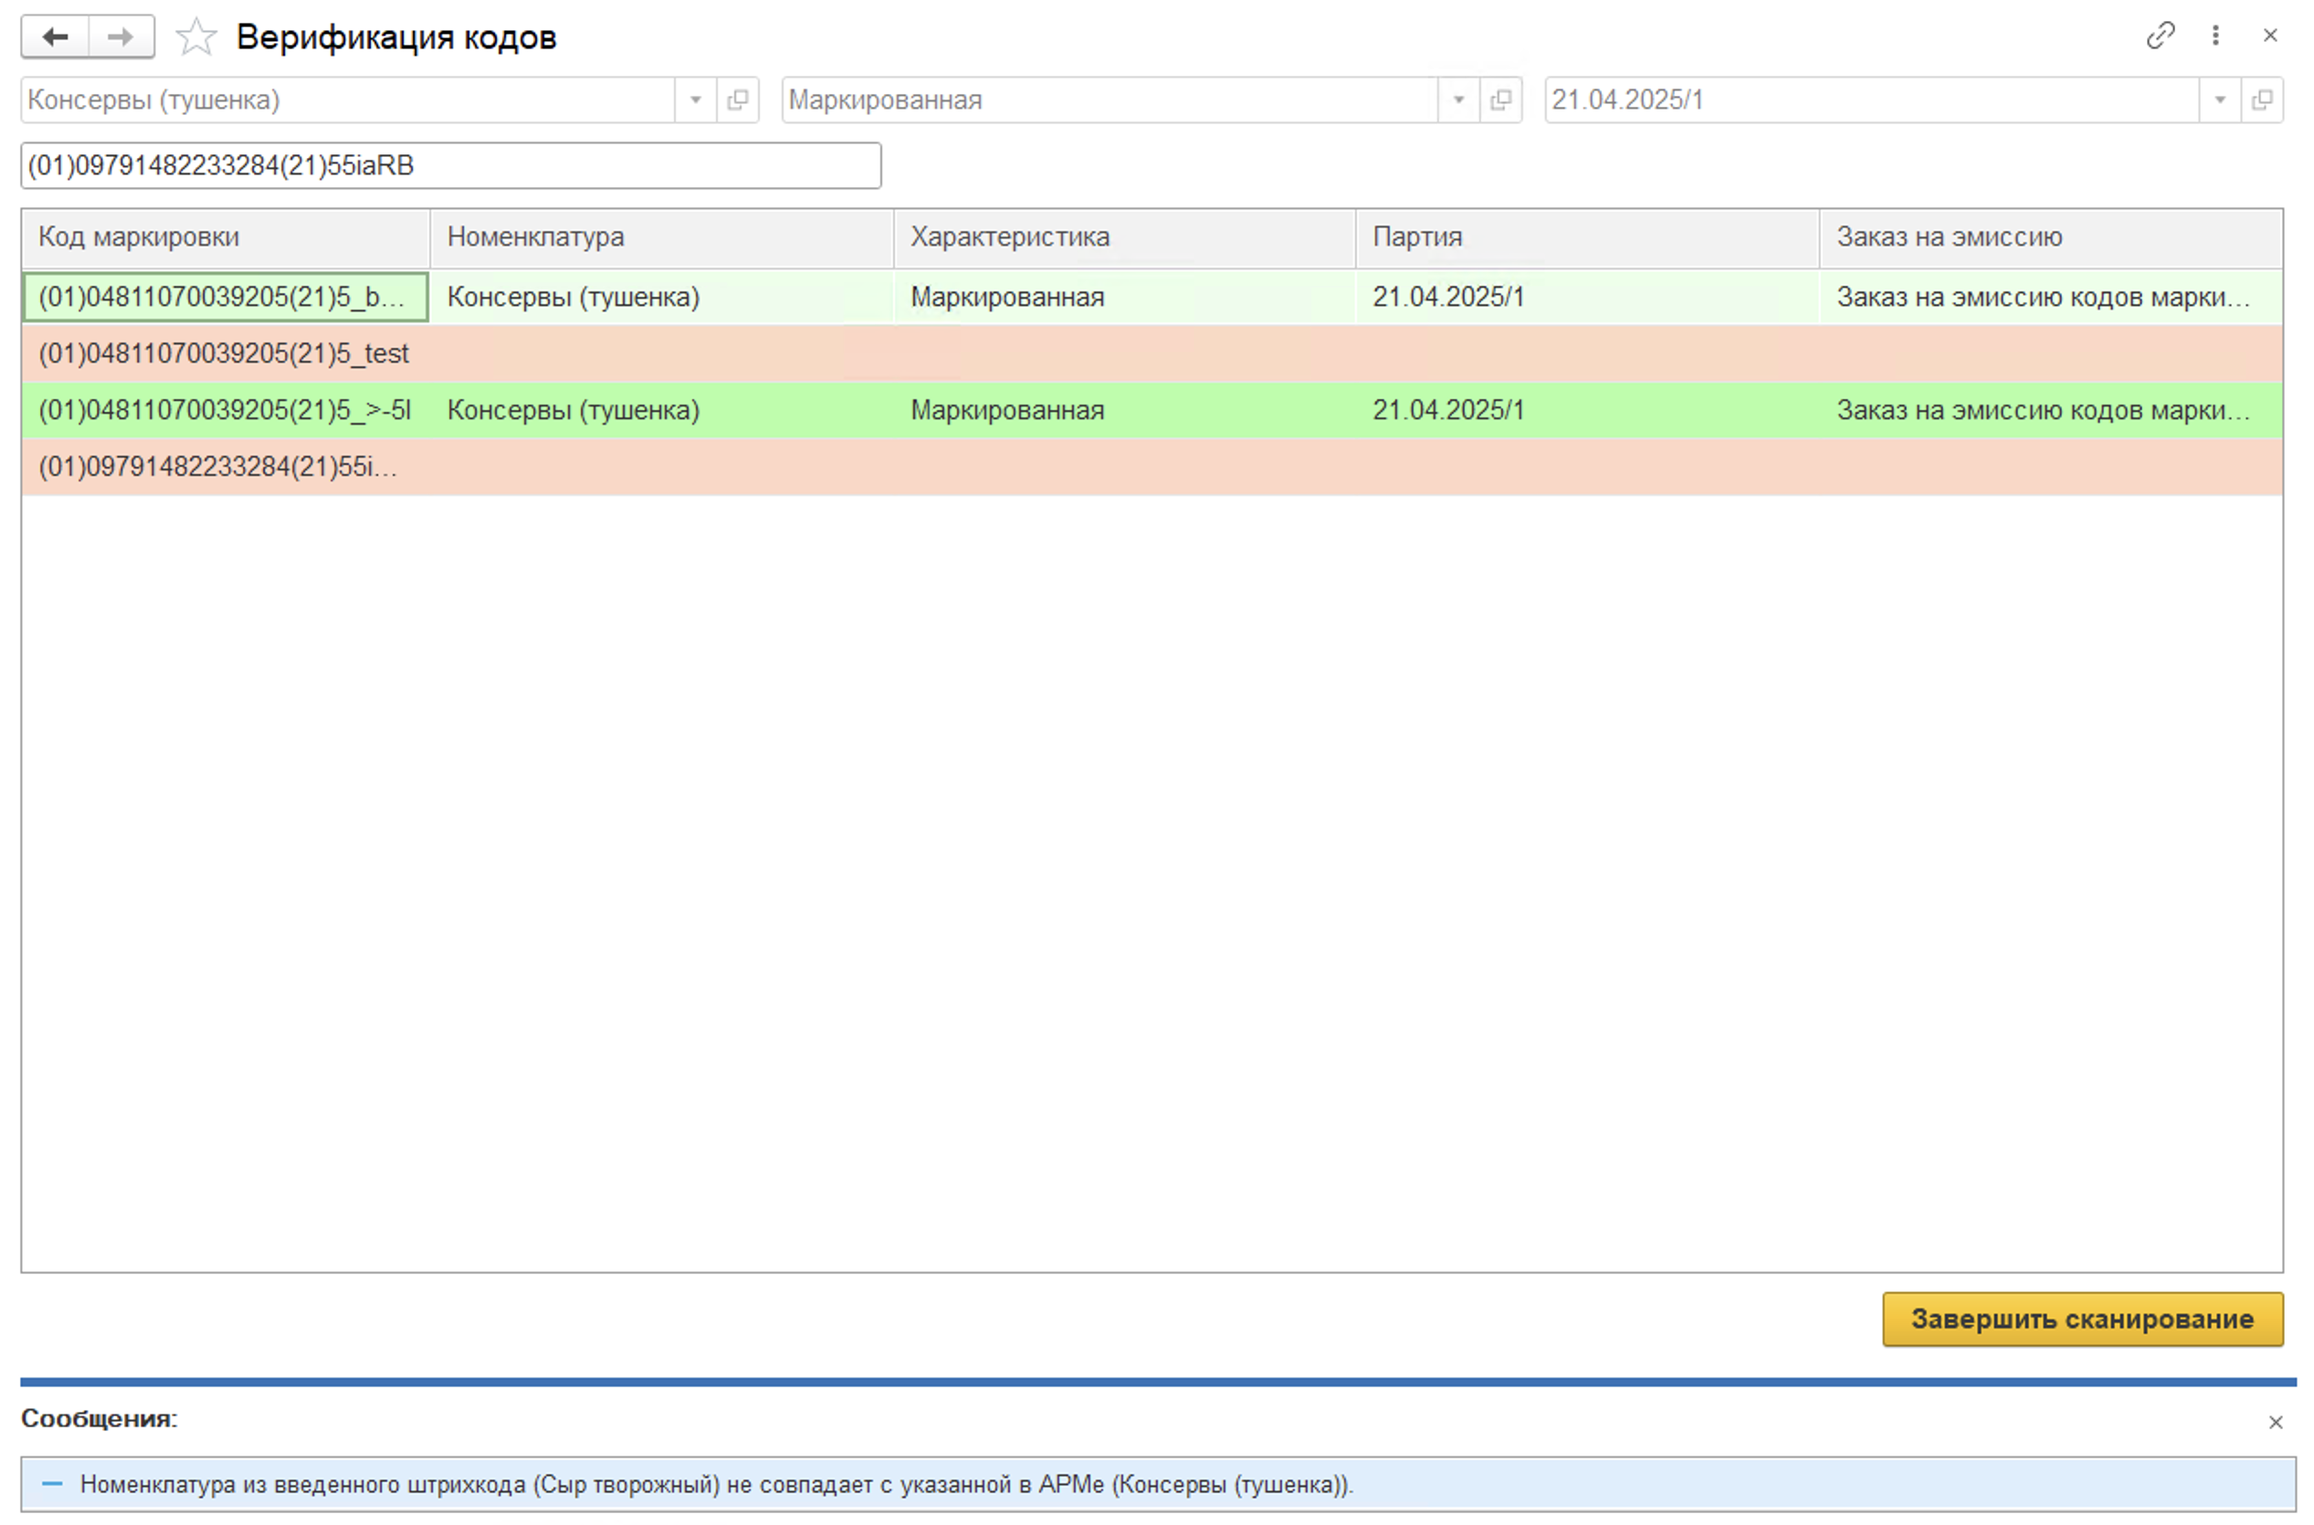
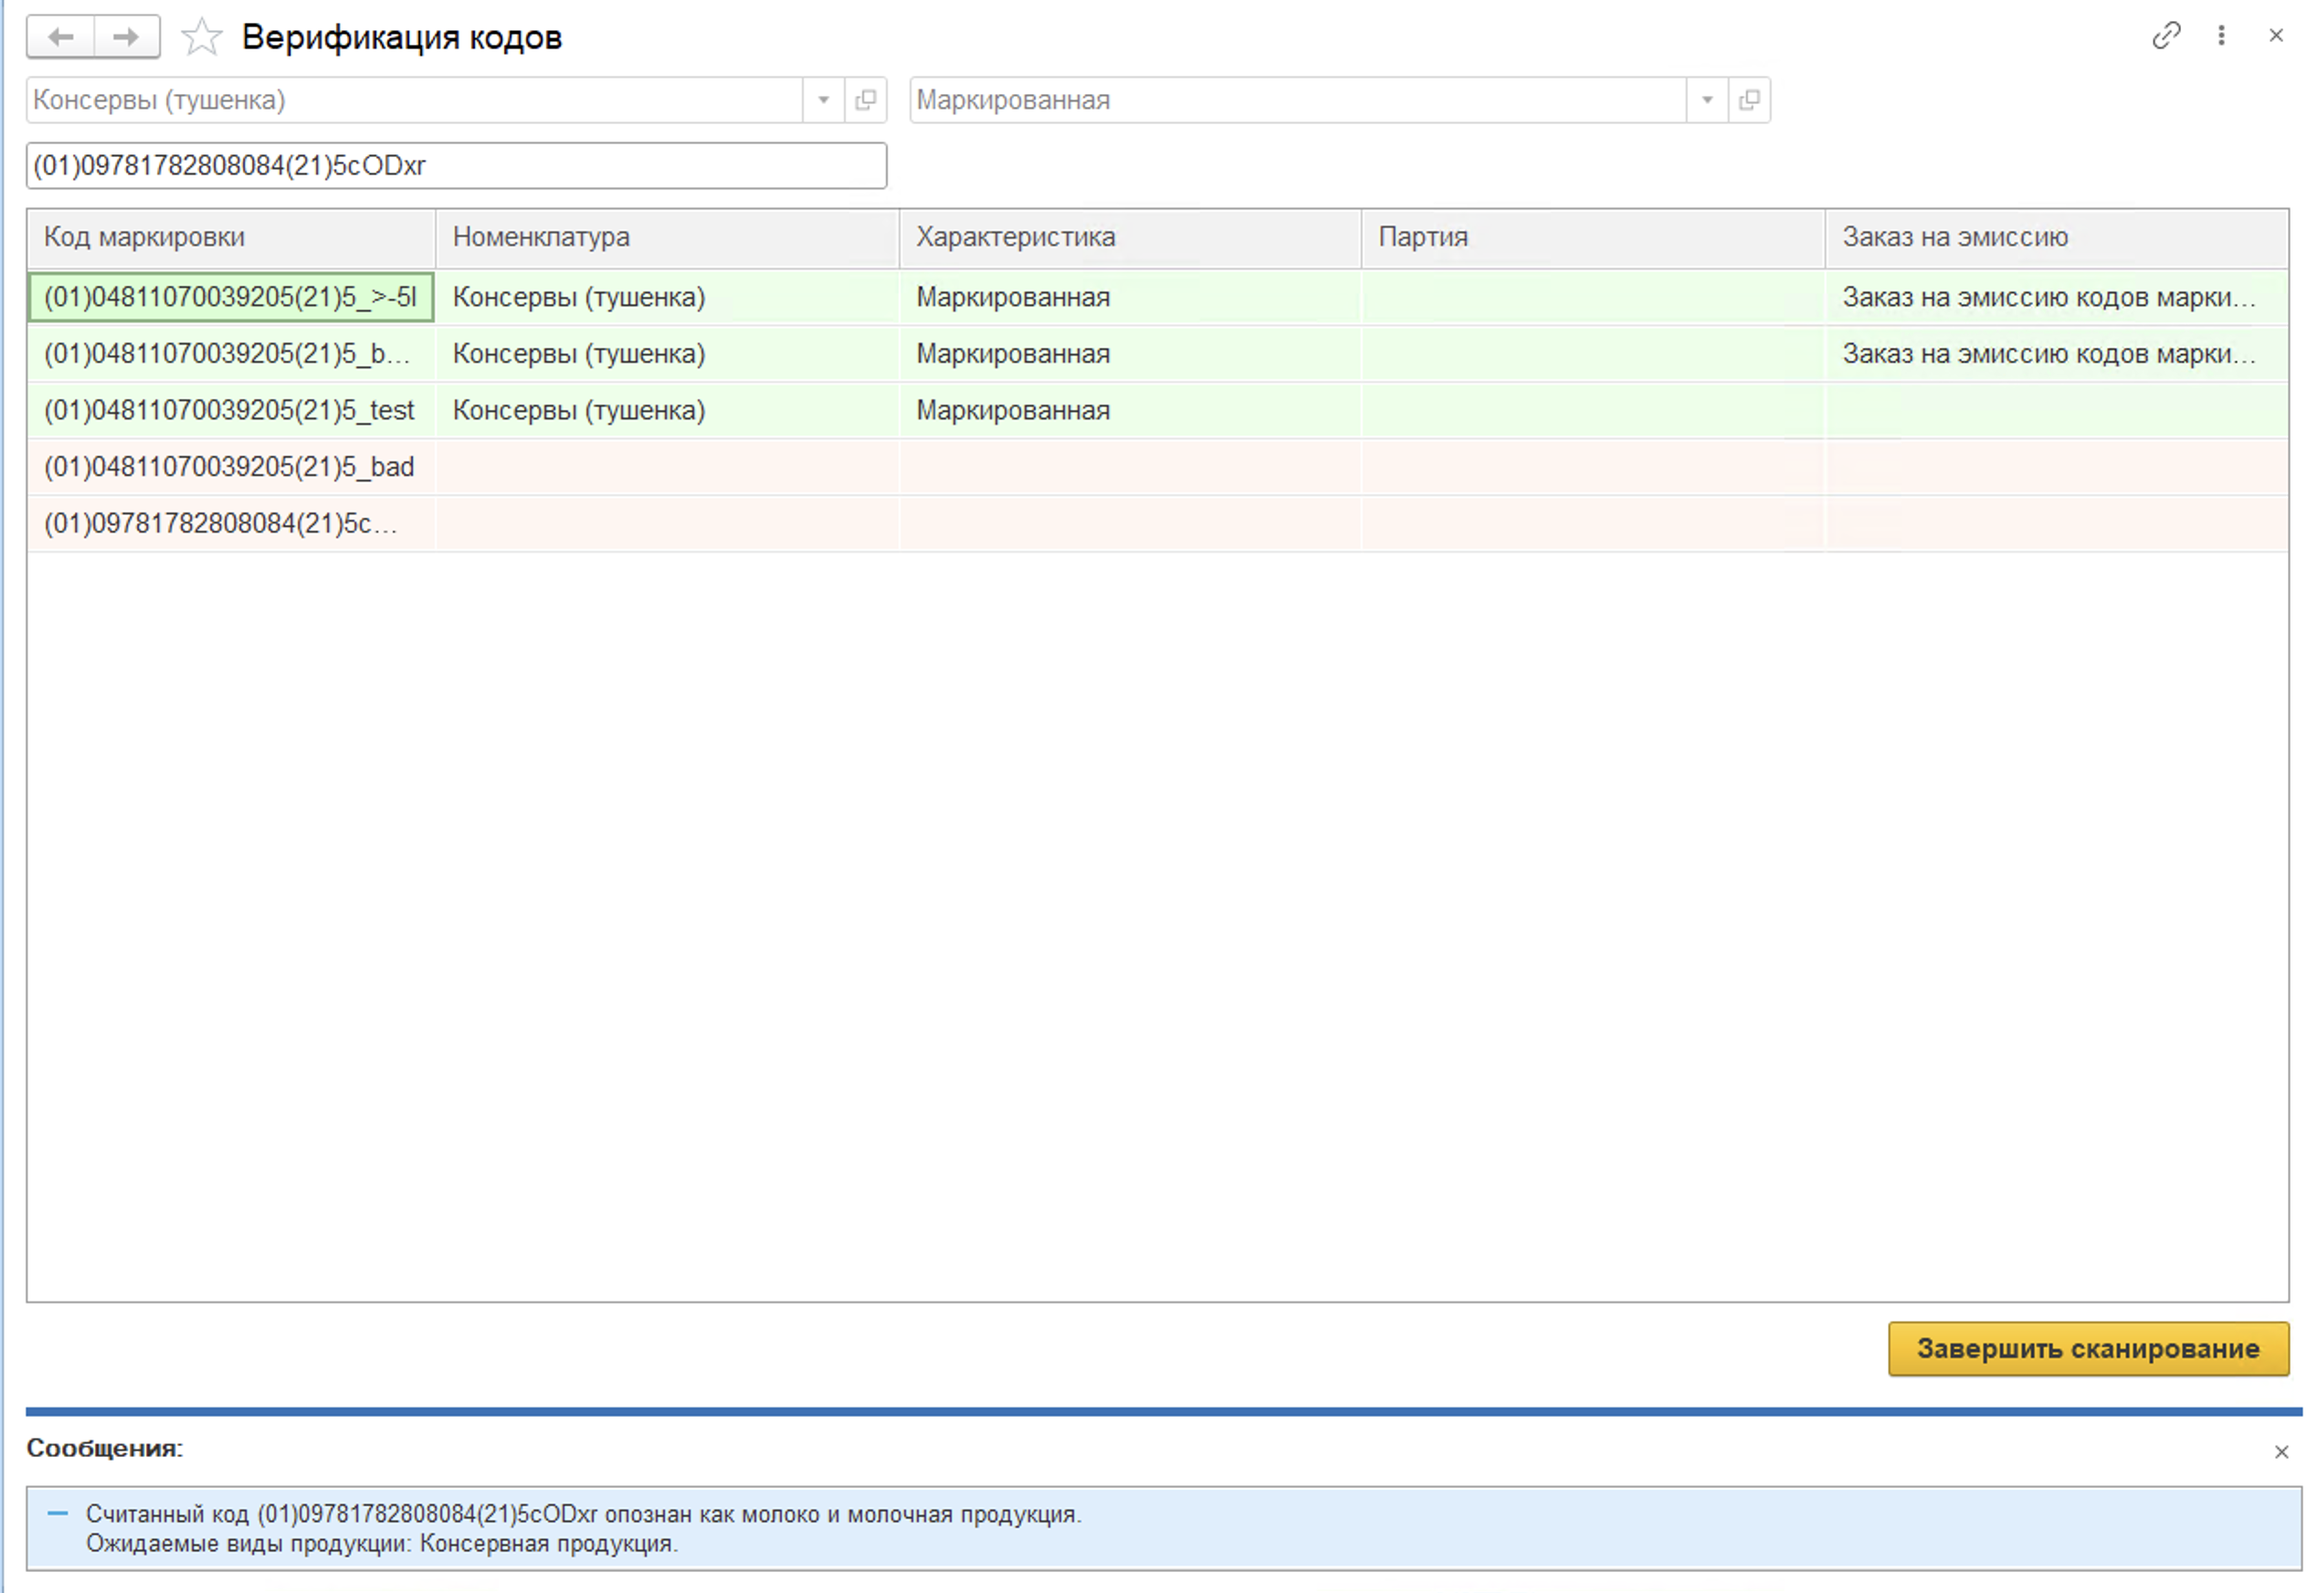
fix: исправления по верификации

Changed region(s): [[0.0, 0.0, 0.9976, 0.9964], [0.6235, 0.0311, 0.7794, 0.0934]]

diff --git a/docs/ChZ/CodeVerification.md b/docs/ChZ/CodeVerification.md
@@ -4,7 +4,7 @@
 
 [![1][1]][1]
 
-Для работы необходимо указать номенклатуру, характеристику и партию. Далее отсканировать код или указать его в поле "Штрихкод". Полученный результат отобразится в таблице:
+Для работы необходимо указать номенклатуру и характеристику. Далее отсканировать код или указать его в поле "Штрихкод". Полученный результат отобразится в таблице:
 
 [![2][2]][2]
 
@@ -14,6 +14,7 @@
 
 [![3][3]][3]
 [![4][4]][4]
+[![6][6]][6]
 [![5][5]][5]
 
 [1]: CodeVerification.assets/1.png
@@ -21,3 +22,4 @@
 [3]: CodeVerification.assets/3.png
 [4]: CodeVerification.assets/4.png
 [5]: CodeVerification.assets/5.png
+[6]: CodeVerification.assets/6.png
